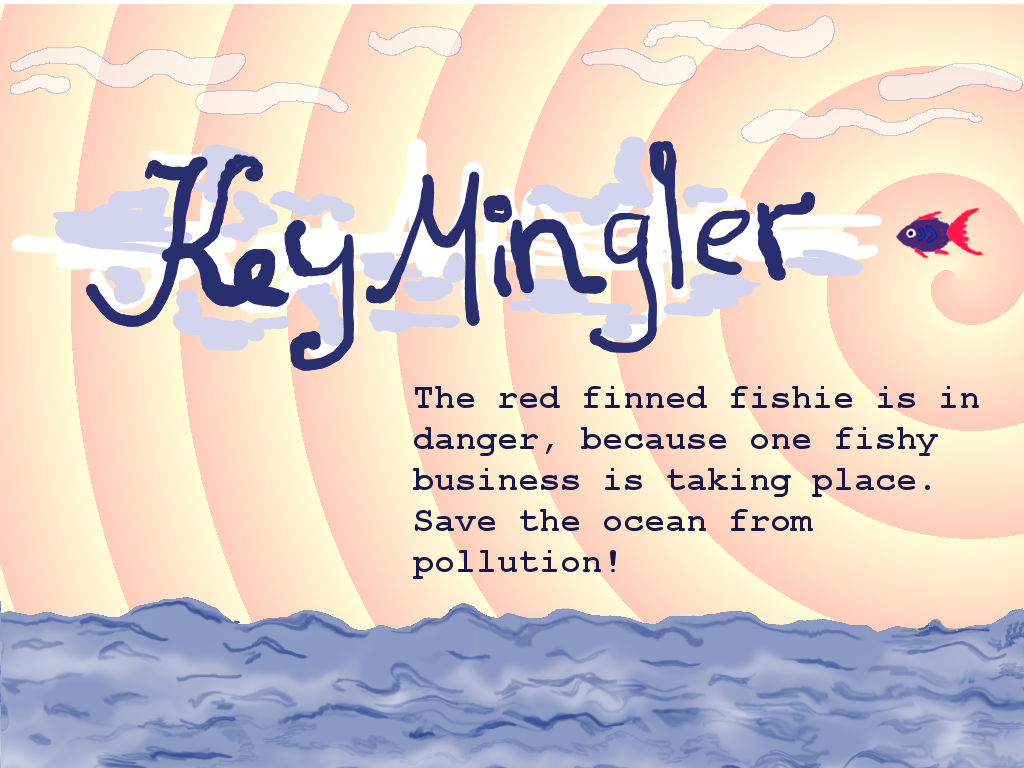
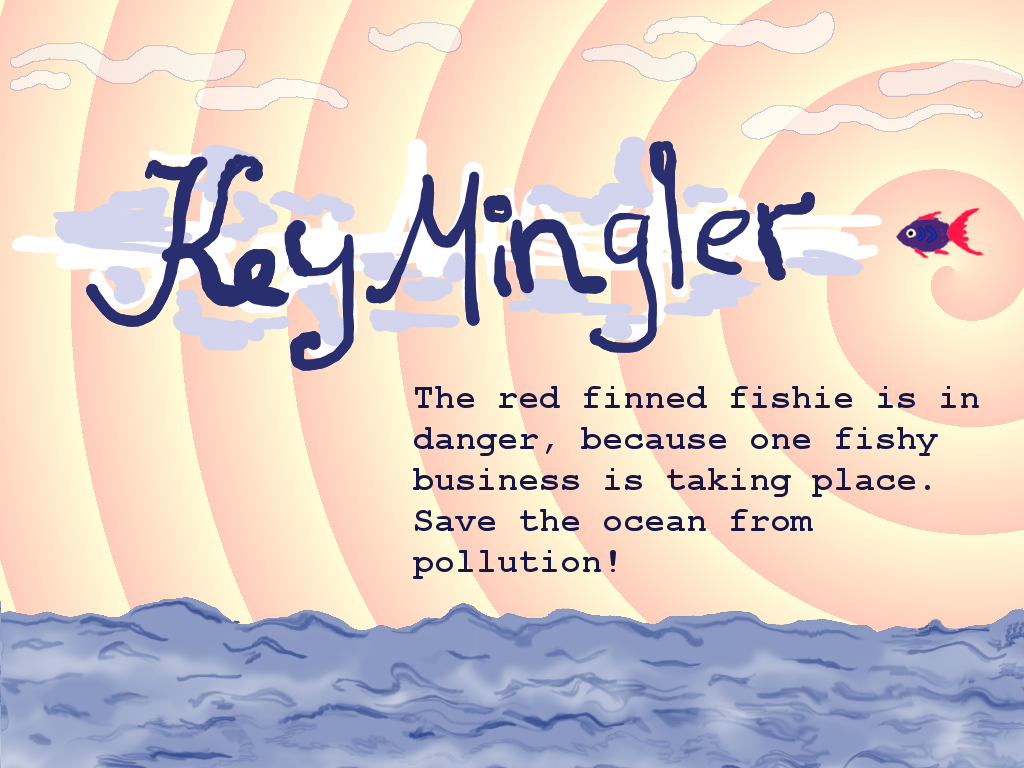
First release

diff --git a/dgreed/apps/keymingler/game.c b/dgreed/apps/keymingler/game.c
@@ -36,6 +36,7 @@ TexHandle tex_barrel;
 TexHandle tex_fire[FIRE_FRAMES];
 TexHandle tex_bottom;
 TexHandle tex_title_screen; 
+TexHandle tex_endgame;
 TexHandle tex_water[WATER_FRAMES];
 TexHandle tex_fish[FISH_FRAMES];
 TexHandle tex_fish_dead[FISH_DEAD_FRAMES];
@@ -46,7 +47,7 @@ RectF srcrect_water = {0, 3, 1024, 539};
 FontHandle font;
 
 // Tweakables
-const float barrel_fall_speed = 100.0f;
+const float barrel_fall_speed = 150.0f;
 float barrel_drop_interval = 2.0f;
 float barrel_drop_variance = 1.5f;
 const float barrel_drop_recalc_interval = 10.0f;
@@ -68,6 +69,7 @@ const float fish_xspeed_variance = 20.0f;
 const float fish_anim_speed = 0.3f;
 const float fish_death_length = 1.0f;
 const float title_screen_fadeout = 1.5f;
+const float endgame_fadein = 1.5f;
 
 // Globals
 #define MAX_BARRELS 64
@@ -94,7 +96,9 @@ float water_t;
 float water_line;
 
 bool title_screen;
+bool endgame;
 float game_start_t;
+float game_end_t;
 float barrel_droprate_recalc_t;
 
 float _quadratic_t(float t) {
@@ -254,7 +258,7 @@ void _draw_water(float level, float t) {
 	frame %= WATER_FRAMES;
 
 	Color water_clear = COLOR_RGBA(255, 255, 255, 128);	
-	Color water_black = COLOR_RGBA(32, 32, 32, 128);	
+	Color water_black = COLOR_RGBA(32, 48, 32, 128);	
 	Color water_color = color_lerp(water_clear, water_black, level);
 
 
@@ -424,7 +428,6 @@ void _update_barrels(float t, float dt) {
 	}
 
 	if(char_count > 0) {
-		// TODO: handle wrong keypresses
 		miss_counter += char_count;
 
 		laser_t = t;
@@ -437,6 +440,10 @@ void _update_barrels(float t, float dt) {
 
 	water_t = ((float)sink_counter - 0.03f * (float)hit_counter)/100.0f;
 	water_t = MIN(MAX(water_t, 0.0f), 1.0f);
+	if(!endgame && water_t >= 1.0f) {
+		endgame = true;
+		game_end_t = t;
+	}	
 }
 
 void _generate_barrels(float t) {
@@ -459,6 +466,7 @@ void game_init(void) {
 	tex_barrel = tex_load(BARREL_FILE);
 	tex_bottom = tex_load(BOTTOM_FILE);
 	tex_title_screen = tex_load(TITLE_SCREEN_FILE);
+	tex_endgame = tex_load(ENDGAME_FILE);
 	_load_anim(FIRE_FRAMES, FIRE_FILE, tex_fire);
 	_load_anim(WATER_FRAMES, WATER_FILE, tex_water);
 	_load_anim(FISH_FRAMES, FISH_FILE, tex_fish);
@@ -478,6 +486,7 @@ void game_reset(void) {
 	sink_counter = 0;
 	water_t = 0.0f;
 	laser_t = -100.0f;
+	endgame = false;
 
 	_gen_fishes();
 }
@@ -487,6 +496,7 @@ void game_close(void) {
 	tex_free(tex_barrel);
 	tex_free(tex_bottom);
 	tex_free(tex_title_screen);
+	tex_free(tex_endgame);
 	_free_anim(FIRE_FRAMES, tex_fire);
 	_free_anim(WATER_FRAMES, tex_water);
 	_free_anim(FISH_FRAMES, tex_fish);
@@ -507,6 +517,10 @@ void game_update(void) {
 		}
 		return;
 	}
+
+	if(endgame)
+		if(char_down(' '))
+			title_screen = true;
 
 	if(t - barrel_droprate_recalc_t > barrel_drop_recalc_interval) {
 		barrel_droprate_recalc_t = t;
@@ -540,6 +554,16 @@ void game_render(void) {
 		video_draw_rect(tex_title_screen, 10, NULL, &dest, c);
 		if(title_screen)
 			return;
+	}
+
+	if(endgame) {
+		float fade = 0.0f;
+		fade = (t - game_end_t) / endgame_fadein;
+		fade = MIN(fade, 1.0f);
+
+		RectF dest = rectf_null();
+		Color c = color_lerp(COLOR_TRANSPARENT, COLOR_WHITE, fade);
+		video_draw_rect(tex_endgame, 10, NULL, &dest, c);
 	}
 
 	RectF dest = rectf_null();

diff --git a/dgreed/apps/keymingler/common.h b/dgreed/apps/keymingler/common.h
@@ -23,6 +23,7 @@
 #define FISH_DEAD_FRAMES 5
 #define FISH_DEAD_FILE ASSETS_DIR "virsta%d.png"
 #define TITLE_SCREEN_FILE ASSETS_DIR "pradinis.png"
+#define ENDGAME_FILE ASSETS_DIR "pabaiga.png"
 
 #define MUSIC_FILE ASSETS_DIR "sea_music.wav"
 #define MUSIC_LENGTH 35.870f
